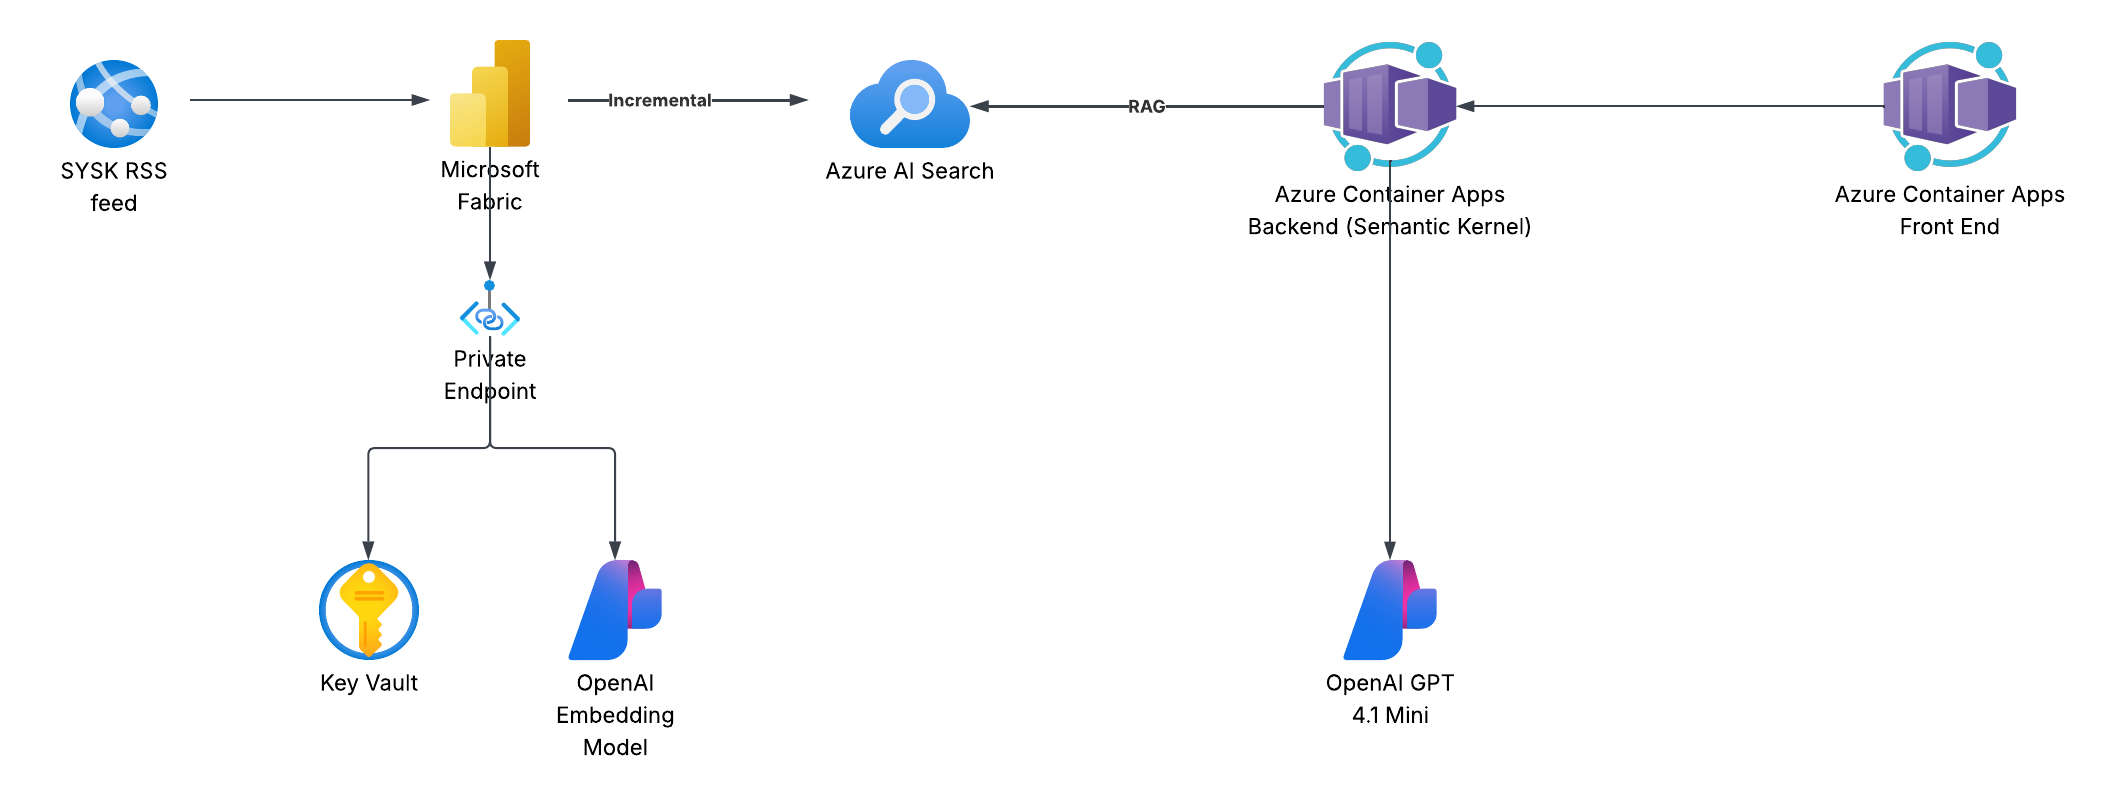
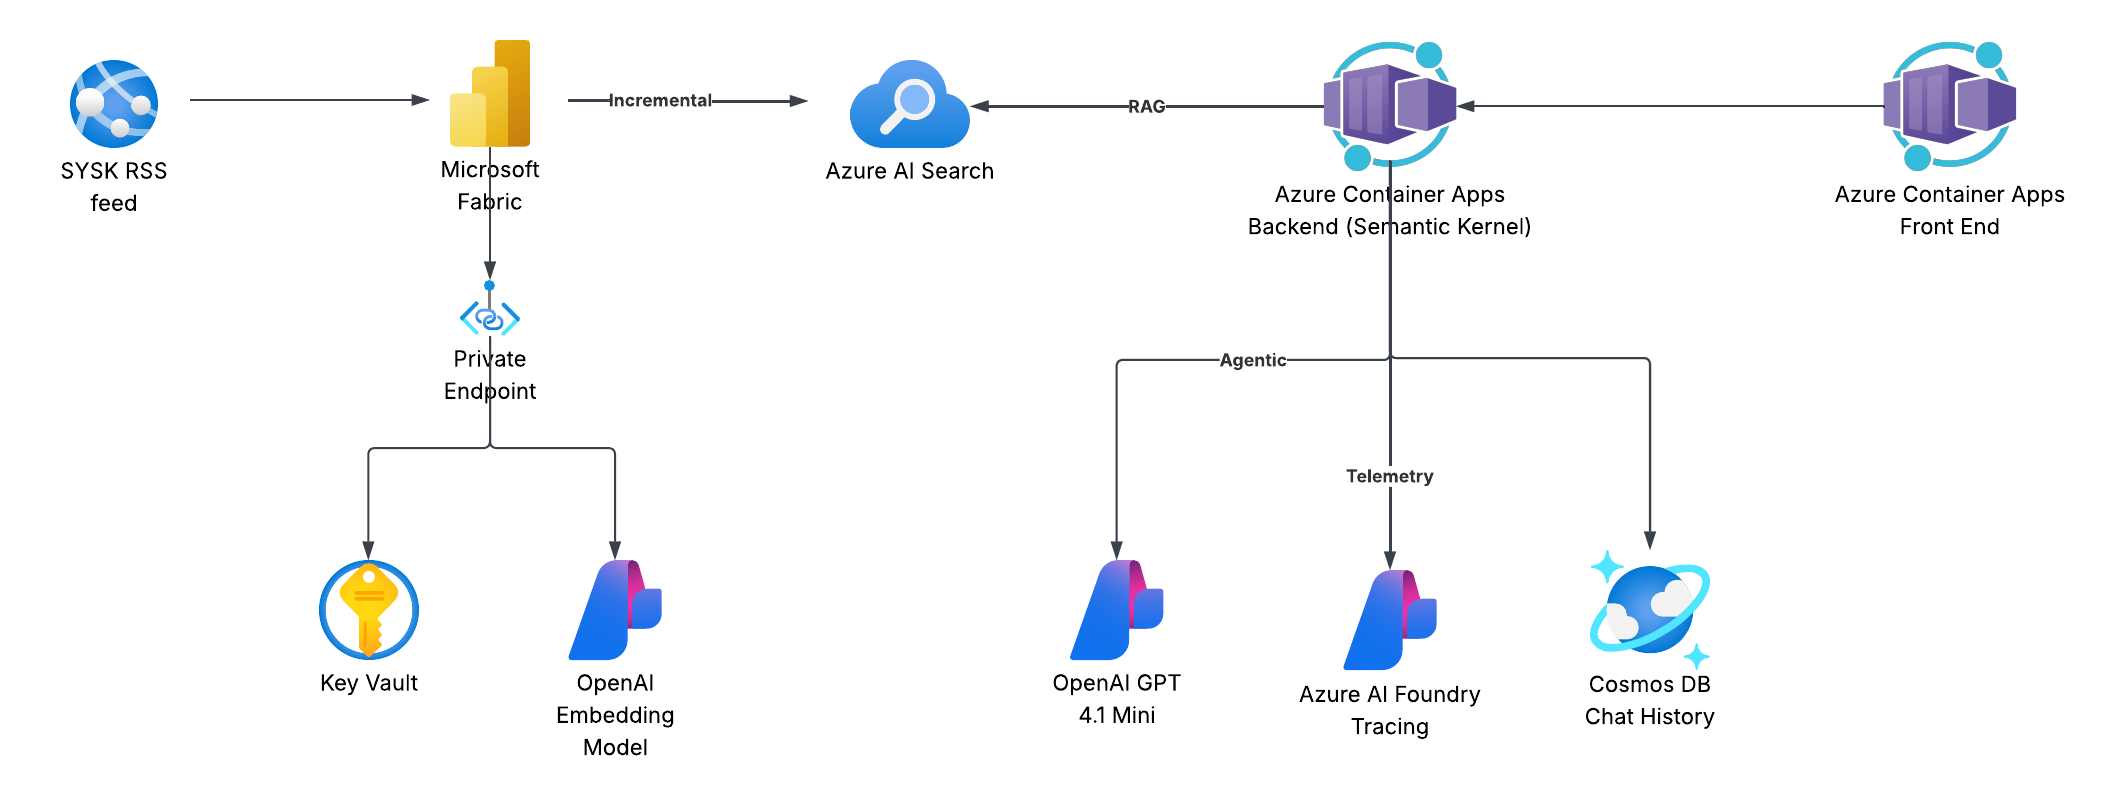
frontend updated with architecture and style

diff --git a/frontend/static/css/chat.css b/frontend/static/css/chat.css
@@ -78,6 +78,7 @@ body {
     margin-top: 0.25rem;
     box-shadow: none;
     transition: color 0.2s ease;
+    border-radius: 4px;
 }
 
 /* Fix 1: Allow truncation inside flex */
@@ -85,6 +86,7 @@ body {
     flex: 1;
     min-width: 0; /* 👈 Crucial for ellipsis to work in flex */
     margin: 0;
+    border-radius: 4px;
 }
 
 /* Fix 2: Make button text truncate correctly */
@@ -101,6 +103,7 @@ body {
     cursor: pointer;
     color:#ffffff;
     padding: 0.5rem 0rem;
+    border-radius: 4px;
 }
 
 .get-history-id-button:hover {

diff --git a/backend/app.py b/backend/app.py
@@ -20,26 +20,26 @@ load_dotenv()  # read .env if present
 
 
 # Set up telemetry - requires an AZ login via Service Principal
-# OpenAIInstrumentor().instrument()
+OpenAIInstrumentor().instrument()
 
-# client_id = os.getenv('AZURE_CLIENT_ID')
-# client_secret = os.getenv('AZURE_CLIENT_SECRET')
-# tenant_id = os.getenv('AZURE_TENANT_ID')
-# endpoint = os.getenv('AZURE_AI_FOUNDRY_ENDPOINT')
+client_id = os.getenv('AZURE_CLIENT_ID')
+client_secret = os.getenv('AZURE_CLIENT_SECRET')
+tenant_id = os.getenv('AZURE_TENANT_ID')
+endpoint = os.getenv('AZURE_AI_FOUNDRY_ENDPOINT')
 
-# credential = ClientSecretCredential(
-#     tenant_id=tenant_id,
-#     client_id=client_id,
-#     client_secret=client_secret,
-# )
+credential = ClientSecretCredential(
+    tenant_id=tenant_id,
+    client_id=client_id,
+    client_secret=client_secret,
+)
 
-# project_client = AIProjectClient(
-#     credential=credential,
-#     endpoint=endpoint,
-# )
+project_client = AIProjectClient(
+    credential=credential,
+    endpoint=endpoint,
+)
 
-# connection_string = project_client.telemetry.get_connection_string()
-# configure_azure_monitor(connection_string=connection_string)
+connection_string = project_client.telemetry.get_connection_string()
+configure_azure_monitor(connection_string=connection_string)
 
 # Store active WebSocket connections
 active_connections: Set[WebSocket] = set()

diff --git a/frontend/routes/chat.py b/frontend/routes/chat.py
@@ -99,7 +99,7 @@ def chat():
     # return redirect(url_for('chat.index'))
 
 
-@chat_bp.route('/reset', methods=['POST'])
+@chat_bp.route('/reset', methods=['GET', 'POST'])
 def reset():
     session['conversation'] = []
     session['session_id'] = None
@@ -146,6 +146,9 @@ def delete_chat(session_id):
 
     if chat_res.status_code != 200:
         return jsonify({'error': 'Chat backend error'}), 500
+    
+    if session_id == session['session_id']:
+        return redirect(url_for('chat.reset'))
     
     return redirect(url_for('chat.load_history_all'))
 

diff --git a/README.md b/README.md
@@ -4,3 +4,6 @@ This repo aims to create a Semantic Kernel based agent for chatting over Stuff Y
 
 ## Architecture Diagram
 ![Screenshot](assets/architecture_diagram.png)
+
+## Example Azure Resource Group
+![Screenshot](assets/azure_rg.png)
